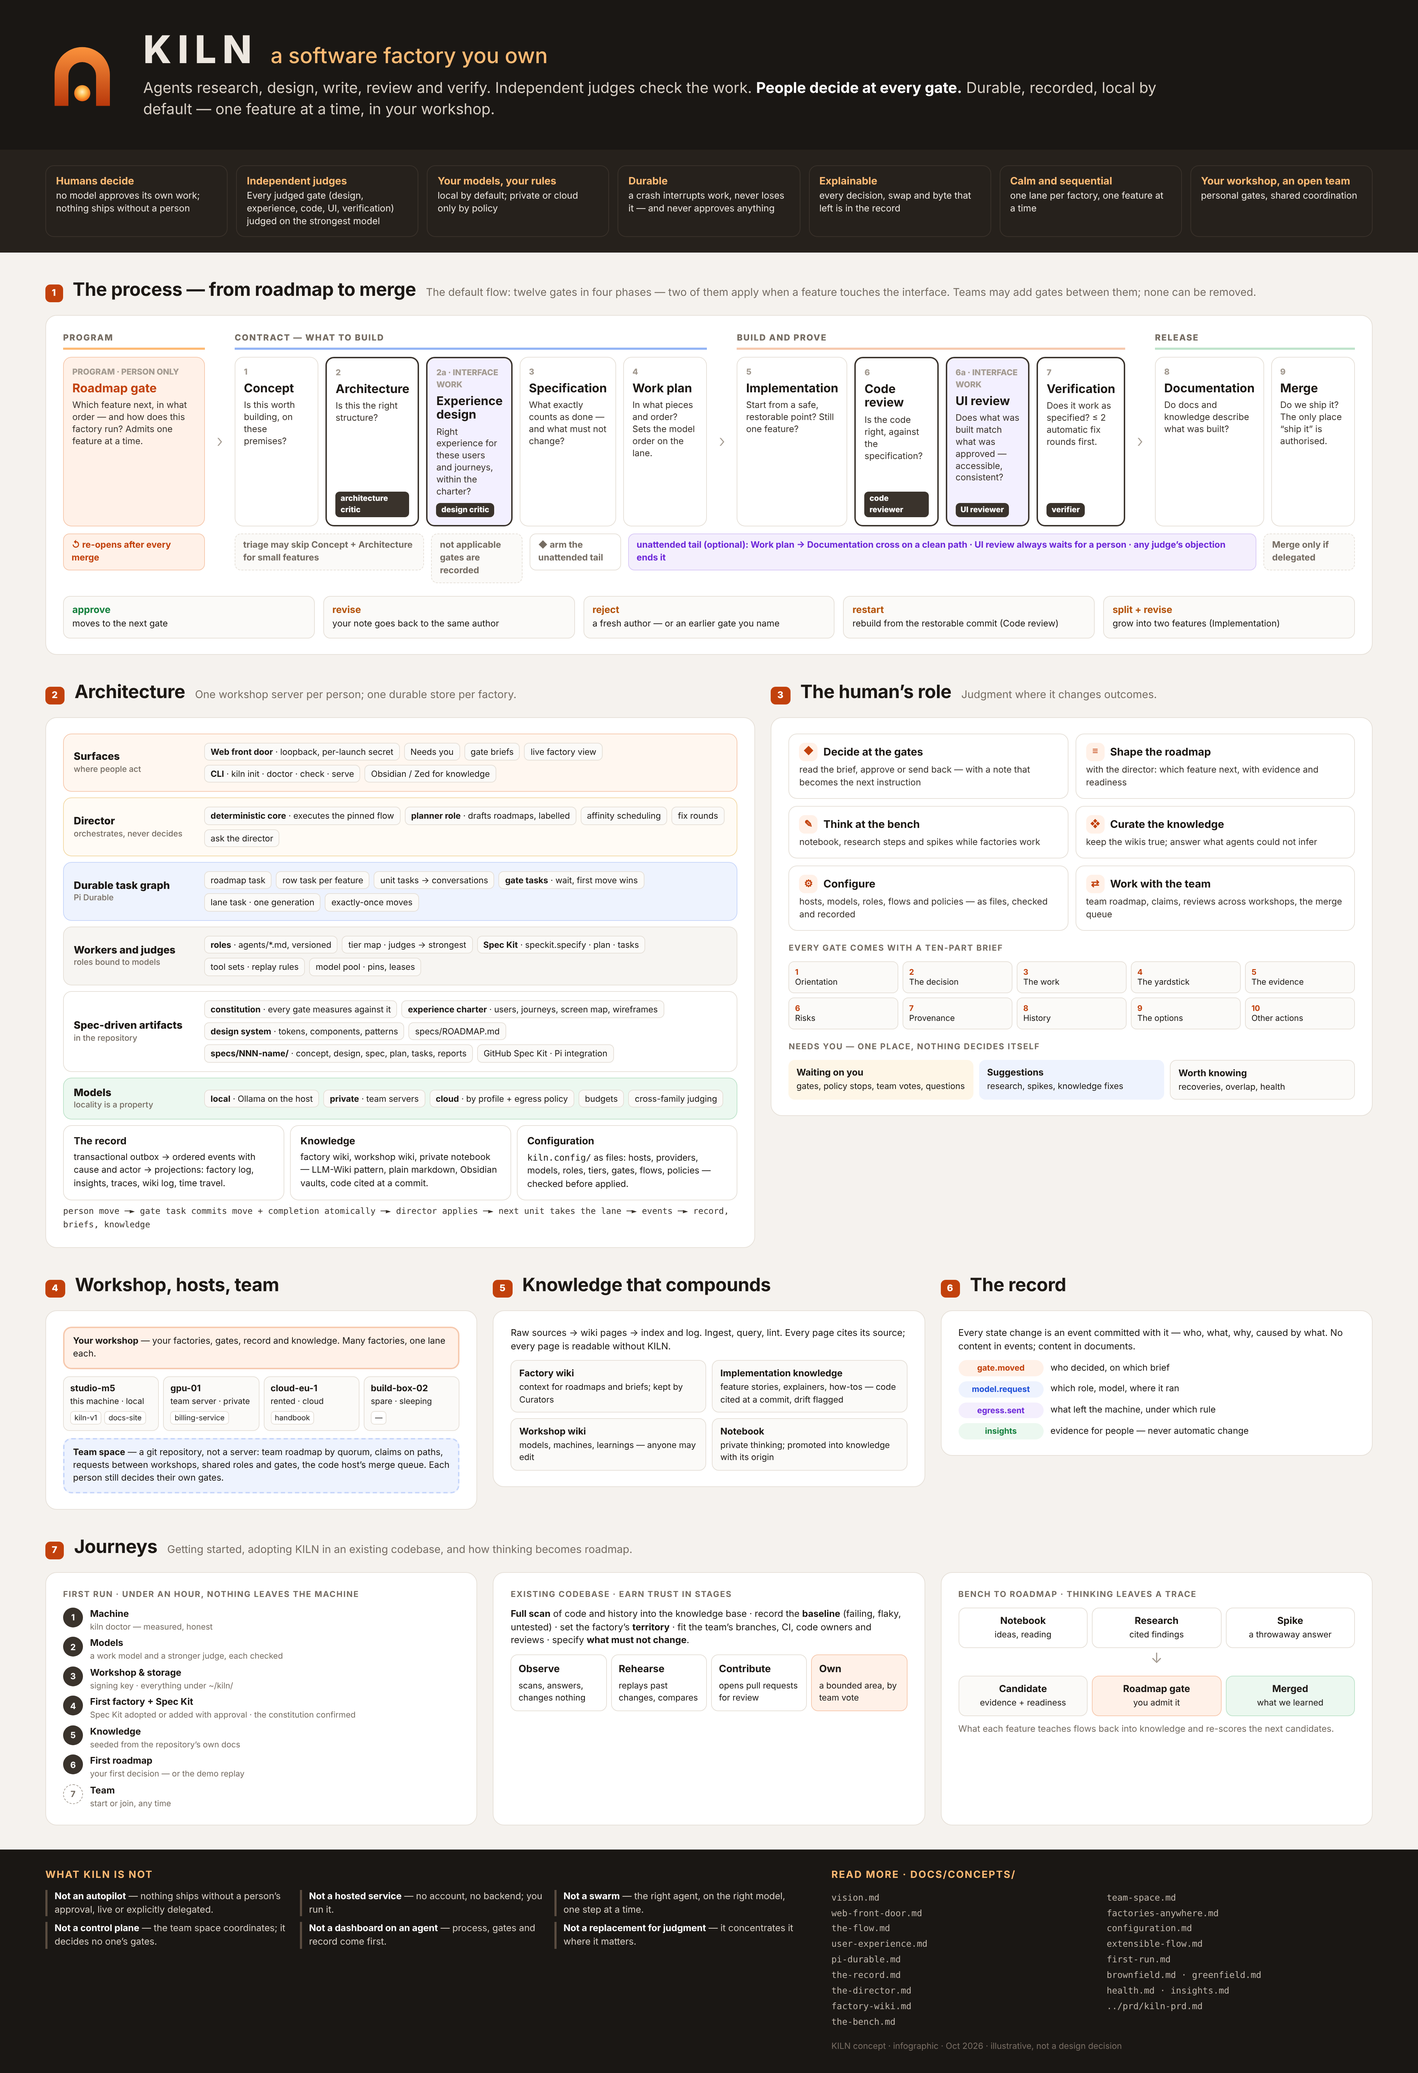
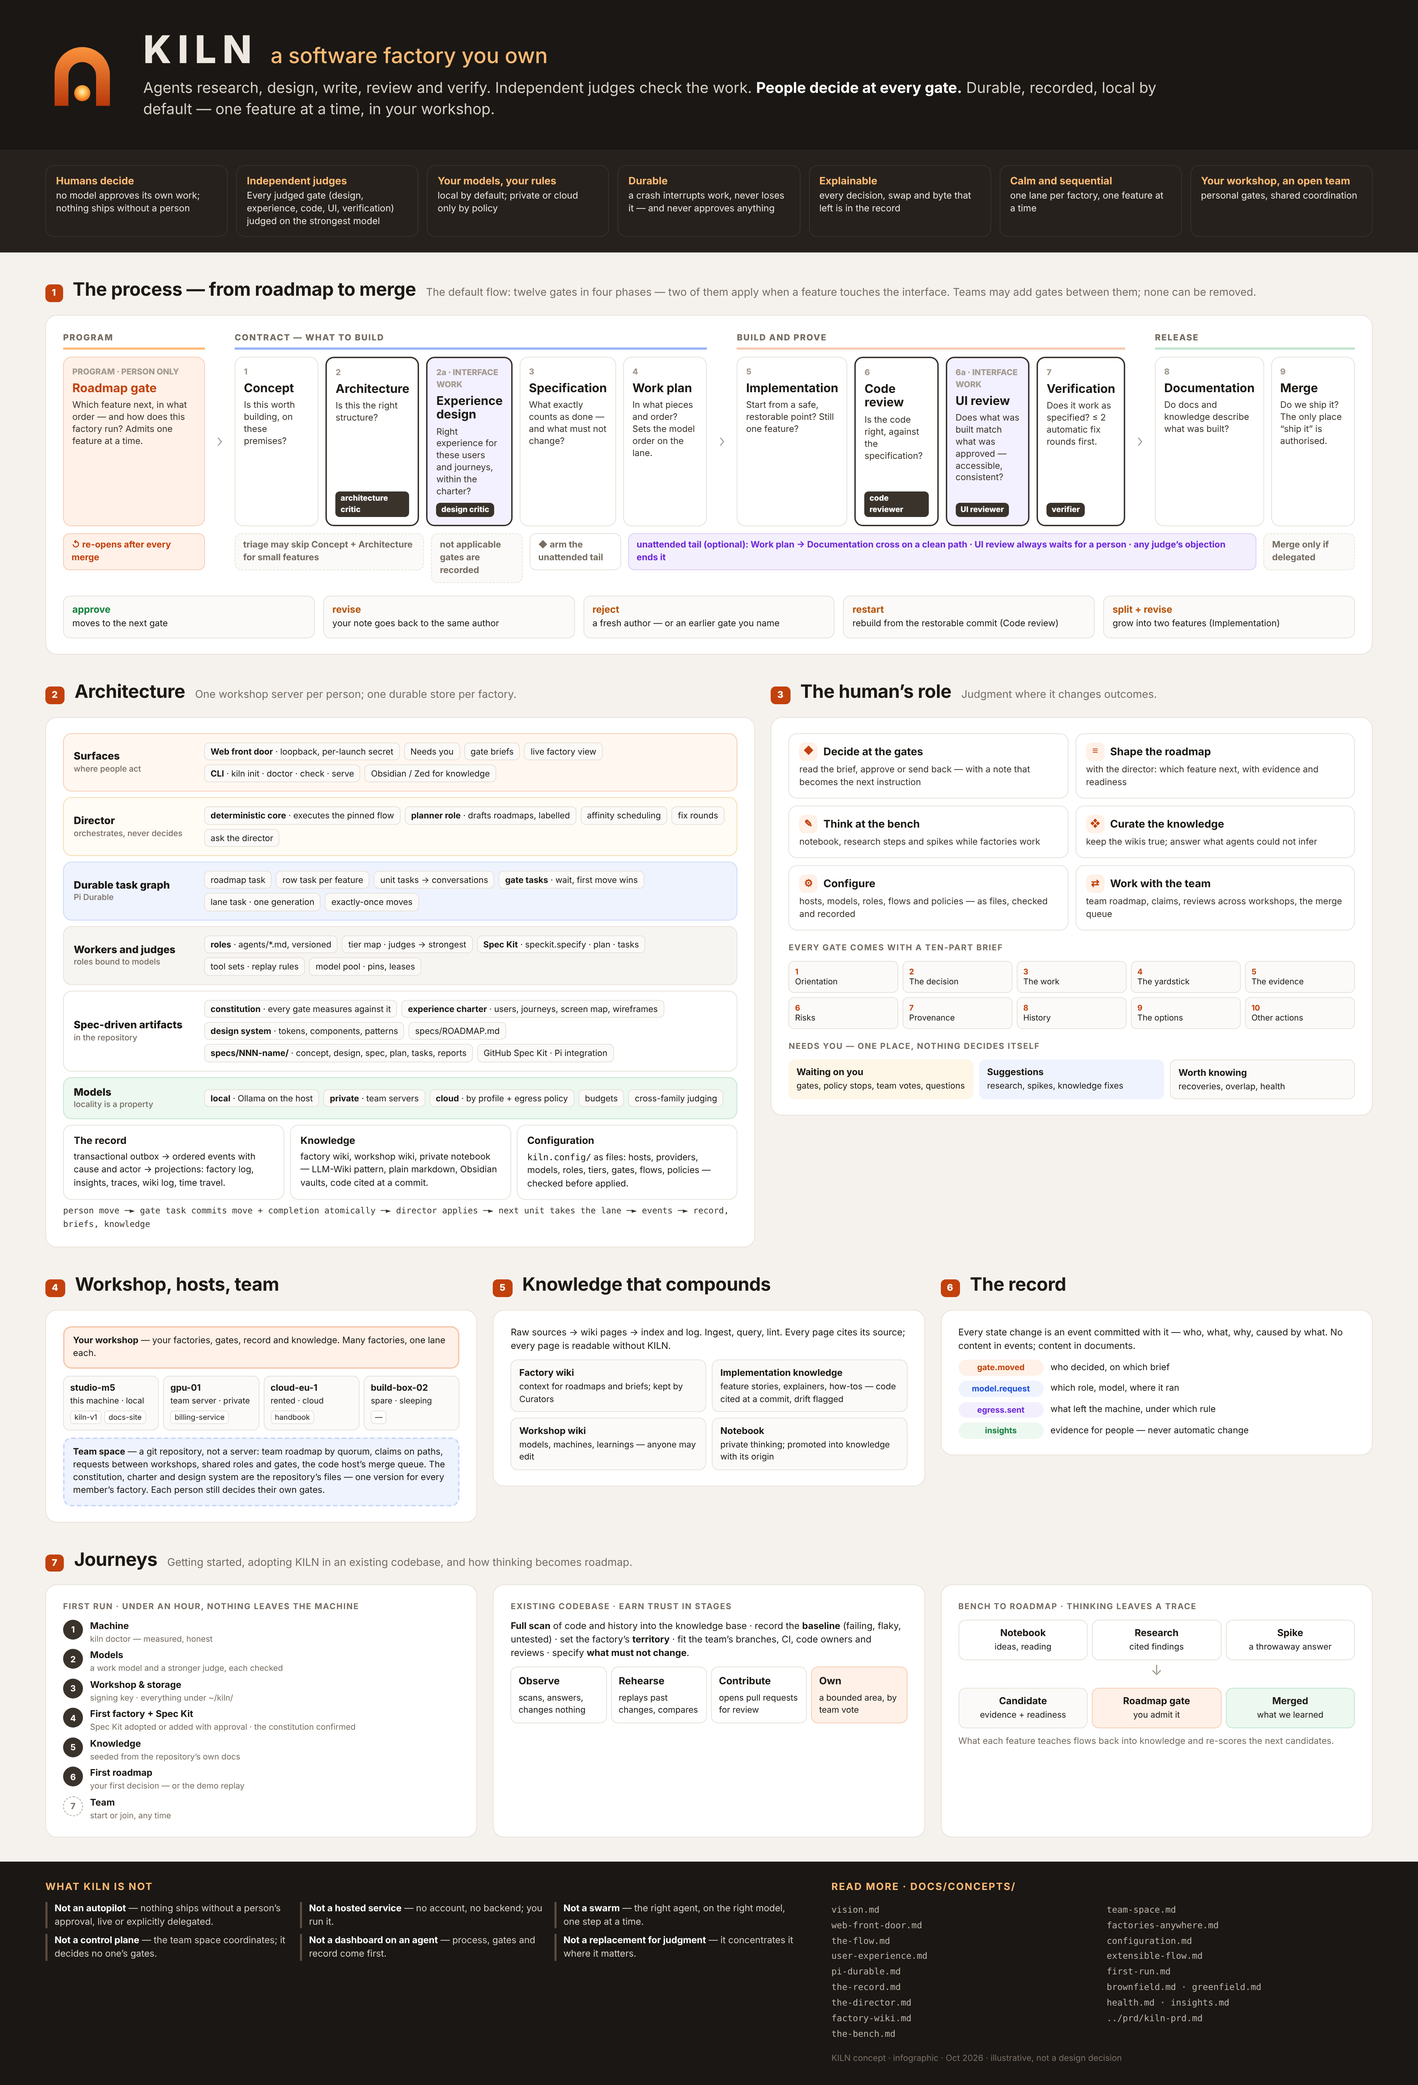
docs: carry the charter, design system, interface gates and shared foundations into the PRD, explainers and poster
Claude-Session: https://claude.ai/code/session_01SEMZrA5RguzPuZJa4EMxUB

diff --git a/docs/concepts/infographic/src/kiln-at-a-glance.html b/docs/concepts/infographic/src/kiln-at-a-glance.html
@@ -229,7 +229,7 @@ body{background:var(--bg);color:var(--ink);font-family:var(--sans);font-size:14p
           <div class="host"><b>cloud-eu-1</b>rented · cloud<div class="facs"><span>handbook</span></div></div>
           <div class="host"><b>build-box-02</b>spare · sleeping<div class="facs"><span>—</span></div></div>
         </div>
-        <div class="team"><b>Team space</b> — a git repository, not a server: team roadmap by quorum, claims on paths, requests between workshops, shared roles and gates, the code host’s merge queue. Each person still decides their own gates.</div>
+        <div class="team"><b>Team space</b> — a git repository, not a server: team roadmap by quorum, claims on paths, requests between workshops, shared roles and gates, the code host’s merge queue. The constitution, charter and design system are the repository’s files — one version for every member’s factory. Each person still decides their own gates.</div>
       </div>
     </div>
     <div>

diff --git a/docs/prd/kiln-prd.md b/docs/prd/kiln-prd.md
@@ -362,7 +362,7 @@ Requirements are numbered per area (`GATE-1`, …) for traceability into the roa
 | ID | Requirement | |
 |---|---|---|
 | FLOW-1 | **Gates as data**: the director executes a feature's flow from definitions, not a constant rail; the default flow ships as data. | Must |
-| FLOW-2 | **Anchors and invariants**: Roadmap gate first, Merge gate last, all built-in gates present in order; added gates only between built-in ones; skipping only as triage does today; nothing after Merge. | Must |
+| FLOW-2 | **Anchors and invariants**: Roadmap gate first, Merge gate last, all built-in gates present in order (Experience design and UI review apply conditionally and are recorded *not applicable* otherwise); added gates only between built-in ones; skipping only as triage does today; nothing after Merge. | Must |
 | FLOW-3 | **Move kinds**: a closed set (approve · revise · reject · restart · split+revise · mitigate) with team labels and rules (required note, `returns_to`, rounds); events record kind and label. | Must |
 | FLOW-4 | **Gate definitions** (`gates/<id>.md`): question, phase and placement, artifact, author, judges, moves, delegable, hold lane, `applies_when` (paths, labels, and deterministic diff predicates — never an LLM), deciders, brief emphasis, version; an added gate is never an arming point. | Should |
 | FLOW-5 | **Flows** (`flows/<name>.yaml`): extend the standard flow and add gates; factory default; team-required gates by path or label. | Should |
@@ -455,6 +455,19 @@ Requirements are numbered per area (`GATE-1`, …) for traceability into the roa
 | EDIT-6 | **Watch and steer**: follow a worker in the factory's worktree read-only; steer a worker step (never a judge) from the KILN thread. | Should |
 | EDIT-7 | **KILN language server**: territory and claims, knowledge on hover, drift, preserved behaviour, judges' findings, code actions. | Could |
 | EDIT-8 | **Team review in Zed**: a teammate's required review given from a shared Zed workspace and mirrored into the owner's record. | Could |
+
+### 6.23 Experience charter, design system and interface gates
+
+*Concepts: [the experience charter](../concepts/experience-charter.md) · [the design system](../concepts/design-system.md) · [the interface gates](../concepts/ui-flow.md) · [team space §11a](../concepts/team-space.md)*
+
+| ID | Requirement | Priority |
+|---|---|---|
+| EXP-1 | **Experience charter**: a person-approved, versioned setup artifact (users, principles, journeys, screen map, wireframes, floor) at `.specify/memory/experience-charter.md`, beside the constitution; never a gate; XCH-1…12 in the concept. | Must |
+| EXP-2 | **Design system**: a standard structure of foundations, DTCG tokens (three tiers, modes, contrast registry), component and pattern specs and a manifest at `.specify/memory/design-system/`; versioned, owned, checked by `kiln check design-system`; DSN-1…13 in the concept. | Must |
+| EXP-3 | **Interface gates**: Experience design (after Architecture) and UI review (after Code review) are built into the default flow, with deterministic `applies_when`, recorded as *not applicable* otherwise; UXG-1…10 in the concept. | Must |
+| EXP-4 | **Pinned and shared**: a feature pins the constitution, charter and design-system versions at admission; in a team they are the repository's files, changed only by a pull request their owners approve; `kiln check foundations` detects drift. | Must |
+| EXP-5 | **Journey coverage** at the Roadmap gate: the planner reads the charter and the brief shows a coverage map; deterministic, never blocking. | Should |
+| EXP-6 | **KILN's own charter and design system** are approved before the web front door's screens. | Must |
 
 ## 7. Non-functional requirements
 
@@ -720,6 +733,8 @@ Consolidated from the concept docs; each needs an answer before the milestone th
 | Feature | row (roadmap field and ids only) | one roadmap item, walked through nine gates |
 | Step | unit (code only) | one piece of work by one role |
 | Gate | gate task | a stop that waits for a human move |
+| Experience charter | charter | the approved description of who the product is for, its journeys, screens and wireframes — a yardstick, never a gate |
+| Design system | design system | the approved tokens, components and patterns the interface is built from — a yardstick, never a gate |
 | Flow | flow | the gates a feature passes: the default twelve plus any the team added |
 | Move kind | move kind | the fixed meaning behind a move — approve, revise, reject, restart, split+revise, mitigate |
 | Move | move | a human decision at a gate |

diff --git a/docs/architecture/explainers/kiln-constitution.md b/docs/architecture/explainers/kiln-constitution.md
@@ -217,7 +217,7 @@ settle a gate in anyone's workshop.
 
 ### II. Every judge runs on the strongest model
 
-**The rule.** Every **judge role** — the architecture critic at Architecture, the code reviewer at Code review, the verifier
+**The rule.** Every **judge role** — the architecture critic at Architecture, the design critic at Experience design, the code reviewer at Code review, the UI reviewer at UI review, the verifier
 at Verification, and any judge on a gate a team adds — must be bound to the **strongest model available to the
 factory**, on every substrate, including a purely local one. A weaker binding is a **refused configuration**, not a
 warning. A judge is **never silently downgraded**: if the strongest model is unavailable, the judged step **waits and
@@ -442,11 +442,13 @@ convenience may break.
 ### The default flow
 
 ```
- Roadmap ─► 1 Concept ─► 2 Architecture ─► 3 Specification ─► 4 Work plan ─► 5 Implementation
- gate                    (judged)                                       │
-   ▲                                                                    ▼
-   │       9 Merge ◄─ 8 Documentation ◄─ 7 Verification ◄─ 6 Code review
-   │                                      (judged)          (judged)
+
+ Roadmap ─► 1 Concept ─► 2 Architecture ─► 2a Experience design ─► 3 Specification ─► 4 Work plan
+ gate                    (judged)          (judged · when UI)                                │
+   ▲                                                                                         ▼
+   │   9 Merge ◄─ 8 Documentation ◄─ 7 Verification ◄─ 6a UI review ◄─ 6 Code review ◄─ 5 Implementation
+   │                                  (judged)          (judged · when UI)  (judged)
+   └──────────────── re-opens after every merged or abandoned feature
    └──────────────── re-opens after every merged or abandoned feature
 ```
 
@@ -455,10 +457,18 @@ convenience may break.
 | Invariant | What it means |
 |---|---|
 | **Fixed anchors** | The Roadmap gate is always first; the Merge gate is always last. Nothing goes before or after them. |
-| **Built-in gates are never removed** | Teams may **add** gates (a threat model, a security review) by a recorded decision. They may not remove or reorder the built-in ones. Every added gate keeps the full gate contract: durable, waiting, settled only by a committed move, recorded. |
+| **Built-in gates are never removed** | Experience design and UI review are built in and apply when a feature touches the interface; otherwise they are recorded as *not applicable*, never dropped. Teams may **add** gates (a threat model, a security review) by a recorded decision. They may not remove or reorder the built-in ones. Every added gate keeps the full gate contract: durable, waiting, settled only by a committed move, recorded. |
 | **A closed set of move kinds** | Every move is one of a fixed set of kinds, each with a known consequence. Teams may label moves in their own words; they may not invent new kinds. Changing the set is a constitutional amendment. |
 | **One feature at a time** | The Roadmap gate admits one feature; it re-opens after that feature. No unattended chaining. |
 | **A flow per feature** | The flow is chosen per feature at the Roadmap gate, from the factory's default, and pinned for that feature. |
+
+### The experience charter and the design system
+
+Two companion artifacts sit beside the constitution in the repository — the **experience charter** (who the product is for,
+its journeys, screens and wireframes) and the **design system** (tokens, components, patterns). They are **yardsticks, never
+gates**: briefs cite them, the Experience design and UI review gates measure against them, a feature pins their versions
+at admission, and only a person approves or amends them. In a team they are the repository's files, shared by every
+member's factory (`team-space.md` §11a).
 
 ### The move kinds
 

diff --git a/docs/architecture/explainers/kiln-v1.md b/docs/architecture/explainers/kiln-v1.md
@@ -115,7 +115,7 @@ claims on code, team knowledge and requests between teammates. A solo engineer i
 | **Workshop** | several factories, a shared model pool and host scheduler, one Needs you | r25 |
 | **Agents and flows** | the Agents screen, role versions and try-runs; added gates and flows from files | r26 |
 | **Health** | observe-never-act watcher, broken-guarantee signals, core metrics, `kiln health` | r27 |
-| **Getting started** | `kiln init`, `kiln doctor`, first factory, Spec Kit, constitution, first roadmap | r28 |
+| **Getting started** | `kiln init`, `kiln doctor`, first factory, Spec Kit, constitution, experience charter and design system, first roadmap | r28 |
 | **New codebases** | product brief, constitution from it, technology decisions, walking skeleton | r29 |
 | **Existing codebases** | profile, full scan into knowledge, baseline, territory, fitting the team's process, base drift | r30, r31 |
 | **Team space** | signed team roadmap by quorum, claims and overlap, requests and mirrored reviews, team-aware Merge gate, team knowledge | r38, r39 |
@@ -361,7 +361,7 @@ whose rule holds but whose mechanism changes; retire code tied to the Pi extensi
 
 ## 9. The quality bar
 
-`kiln-v1` is held to the [constitution](../../../.specify/memory/constitution.md) (v2.0.1) — every rule enforced by
+`kiln-v1` is held to the [constitution](../../../.specify/memory/constitution.md) (v2.1.0) — every rule enforced by
 construction and proven by a check that fails by name. In engineering terms:
 
 | Requirement | What it means for `kiln-v1` |

diff --git a/docs/concepts/user-experience.md b/docs/concepts/user-experience.md
@@ -58,6 +58,7 @@ Personas are framed by the **job** a person does in KILN, not by their title. On
 | **The Observer** | follows progress without deciding — a lead, a stakeholder, a teammate | an honest picture of where things stand and why |
 | **The Auditor** | reconstructs what happened after the fact — for compliance, a post-mortem, or curiosity | a complete, trustworthy record: who decided what, on what evidence, and what left the machine |
 | **The Curator** | keeps a factory's wiki: chooses sources, talks ingests through with the LLM, edits pages, acts on lint findings, refines the schema | a knowledge corpus that is current, traceable and actually used by roadmaps and gates |
+| **The Experience and design owner** | owns the experience charter and the design system: approves their versions and amendments, approves pull requests that touch them (a named person, or a Decider when none is named) | an interface that stays one product across every feature and every teammate's factory |
 | **The Evaluator** | judges whether models and policies are good enough — local versus cloud, which role on which model | measured outcomes, comparable across models and over time |
 
 The primary persona is the **Decider**. Every other persona's needs are served without competing with the

diff --git a/docs/concepts/vision.md b/docs/concepts/vision.md
@@ -96,6 +96,8 @@ The first five gates settle *what to build* before any code exists. The next fou
 last two *describe it and ship it*. The Roadmap gate sits above all of them and is the only gate that is never
 automatic.
 
+Before the first Roadmap gate, a product with an interface also gets two short, person-approved documents beside the constitution — the **experience charter** (who it is for, the journeys, the screens and wireframes) and the **design system** (the tokens, components and patterns it is built from) — which Experience design and UI review measure features against (`experience-charter.md`, `design-system.md`).
+
 These twelve gates are the **default flow**. Teams can add gates that match how they build software — a threat model, a
 security or accessibility review, a performance budget, a product sign-off — between the built-in ones; every added gate
 keeps the same guarantees, and no built-in gate can be removed (`extensible-flow.md`).

diff --git a/docs/concepts/the-flow.md b/docs/concepts/the-flow.md
@@ -87,6 +87,7 @@ continues. Their internal ids are `2a-experience` and `6a-ui-review`; the other 
 
 ## 4. Before the first gate
 
+0. **Setup artifacts.** Where the product has an interface, the factory has an **experience charter** and a **design system**, approved by a person before the first Roadmap gate and pinned by each feature at admission (`experience-charter.md`, `design-system.md`); Experience design and UI review measure against them.
 1. **Admission.** At the Roadmap gate a person admits **one** next feature, and with it decides the factory's profile,
    egress policy, budget and placement, and the feature's **flow** (the standard flow unless added gates apply —
    `extensible-flow.md` §7). Approving admits one feature only; there is no chaining.

diff --git a/docs/architecture/explainers/kiln-architecture.md b/docs/architecture/explainers/kiln-architecture.md
@@ -211,7 +211,7 @@ The factory works in its repository — by default a **separate git worktree**, 
 Feature artifacts follow **GitHub Spec Kit**: the constitution in `.specify/memory/constitution.md`, one directory per
 feature in `specs/NNN-name/` (spec, plan, tasks, and KILN's concept, design and judges' reports), and the `speckit.*`
 commands run by KILN's roles as Pi sessions. Spec-driven artifacts are versioned with the code; the factory store keeps the
-record, not copies of them.
+record, not copies of them. Beside the constitution sit the **experience charter** and the **design system** (`.specify/memory/`), the yardsticks of the interface gates.
 
 ## 6. The record and its views
 

diff --git a/docs/concepts/infographic/README.md b/docs/concepts/infographic/README.md
@@ -10,11 +10,11 @@ existing codebase, bench to roadmap.
 
 Illustrative, not a design decision; the concept docs in `../` govern where they differ.
 
-Regenerate (4000 × 5844 px):
+Regenerate (4000 × 5880 px):
 
 ```sh
 cd src && "/Applications/Google Chrome.app/Contents/MacOS/Google Chrome" --headless=new --disable-gpu --hide-scrollbars \
-  --force-device-scale-factor=2 --window-size=2000,2922 --screenshot=../kiln-at-a-glance.png "file://$PWD/kiln-at-a-glance.html"
+  --force-device-scale-factor=2 --window-size=2000,2940 --screenshot=../kiln-at-a-glance.png "file://$PWD/kiln-at-a-glance.html"
 ```
 
 # The engineer at the center — infographic
